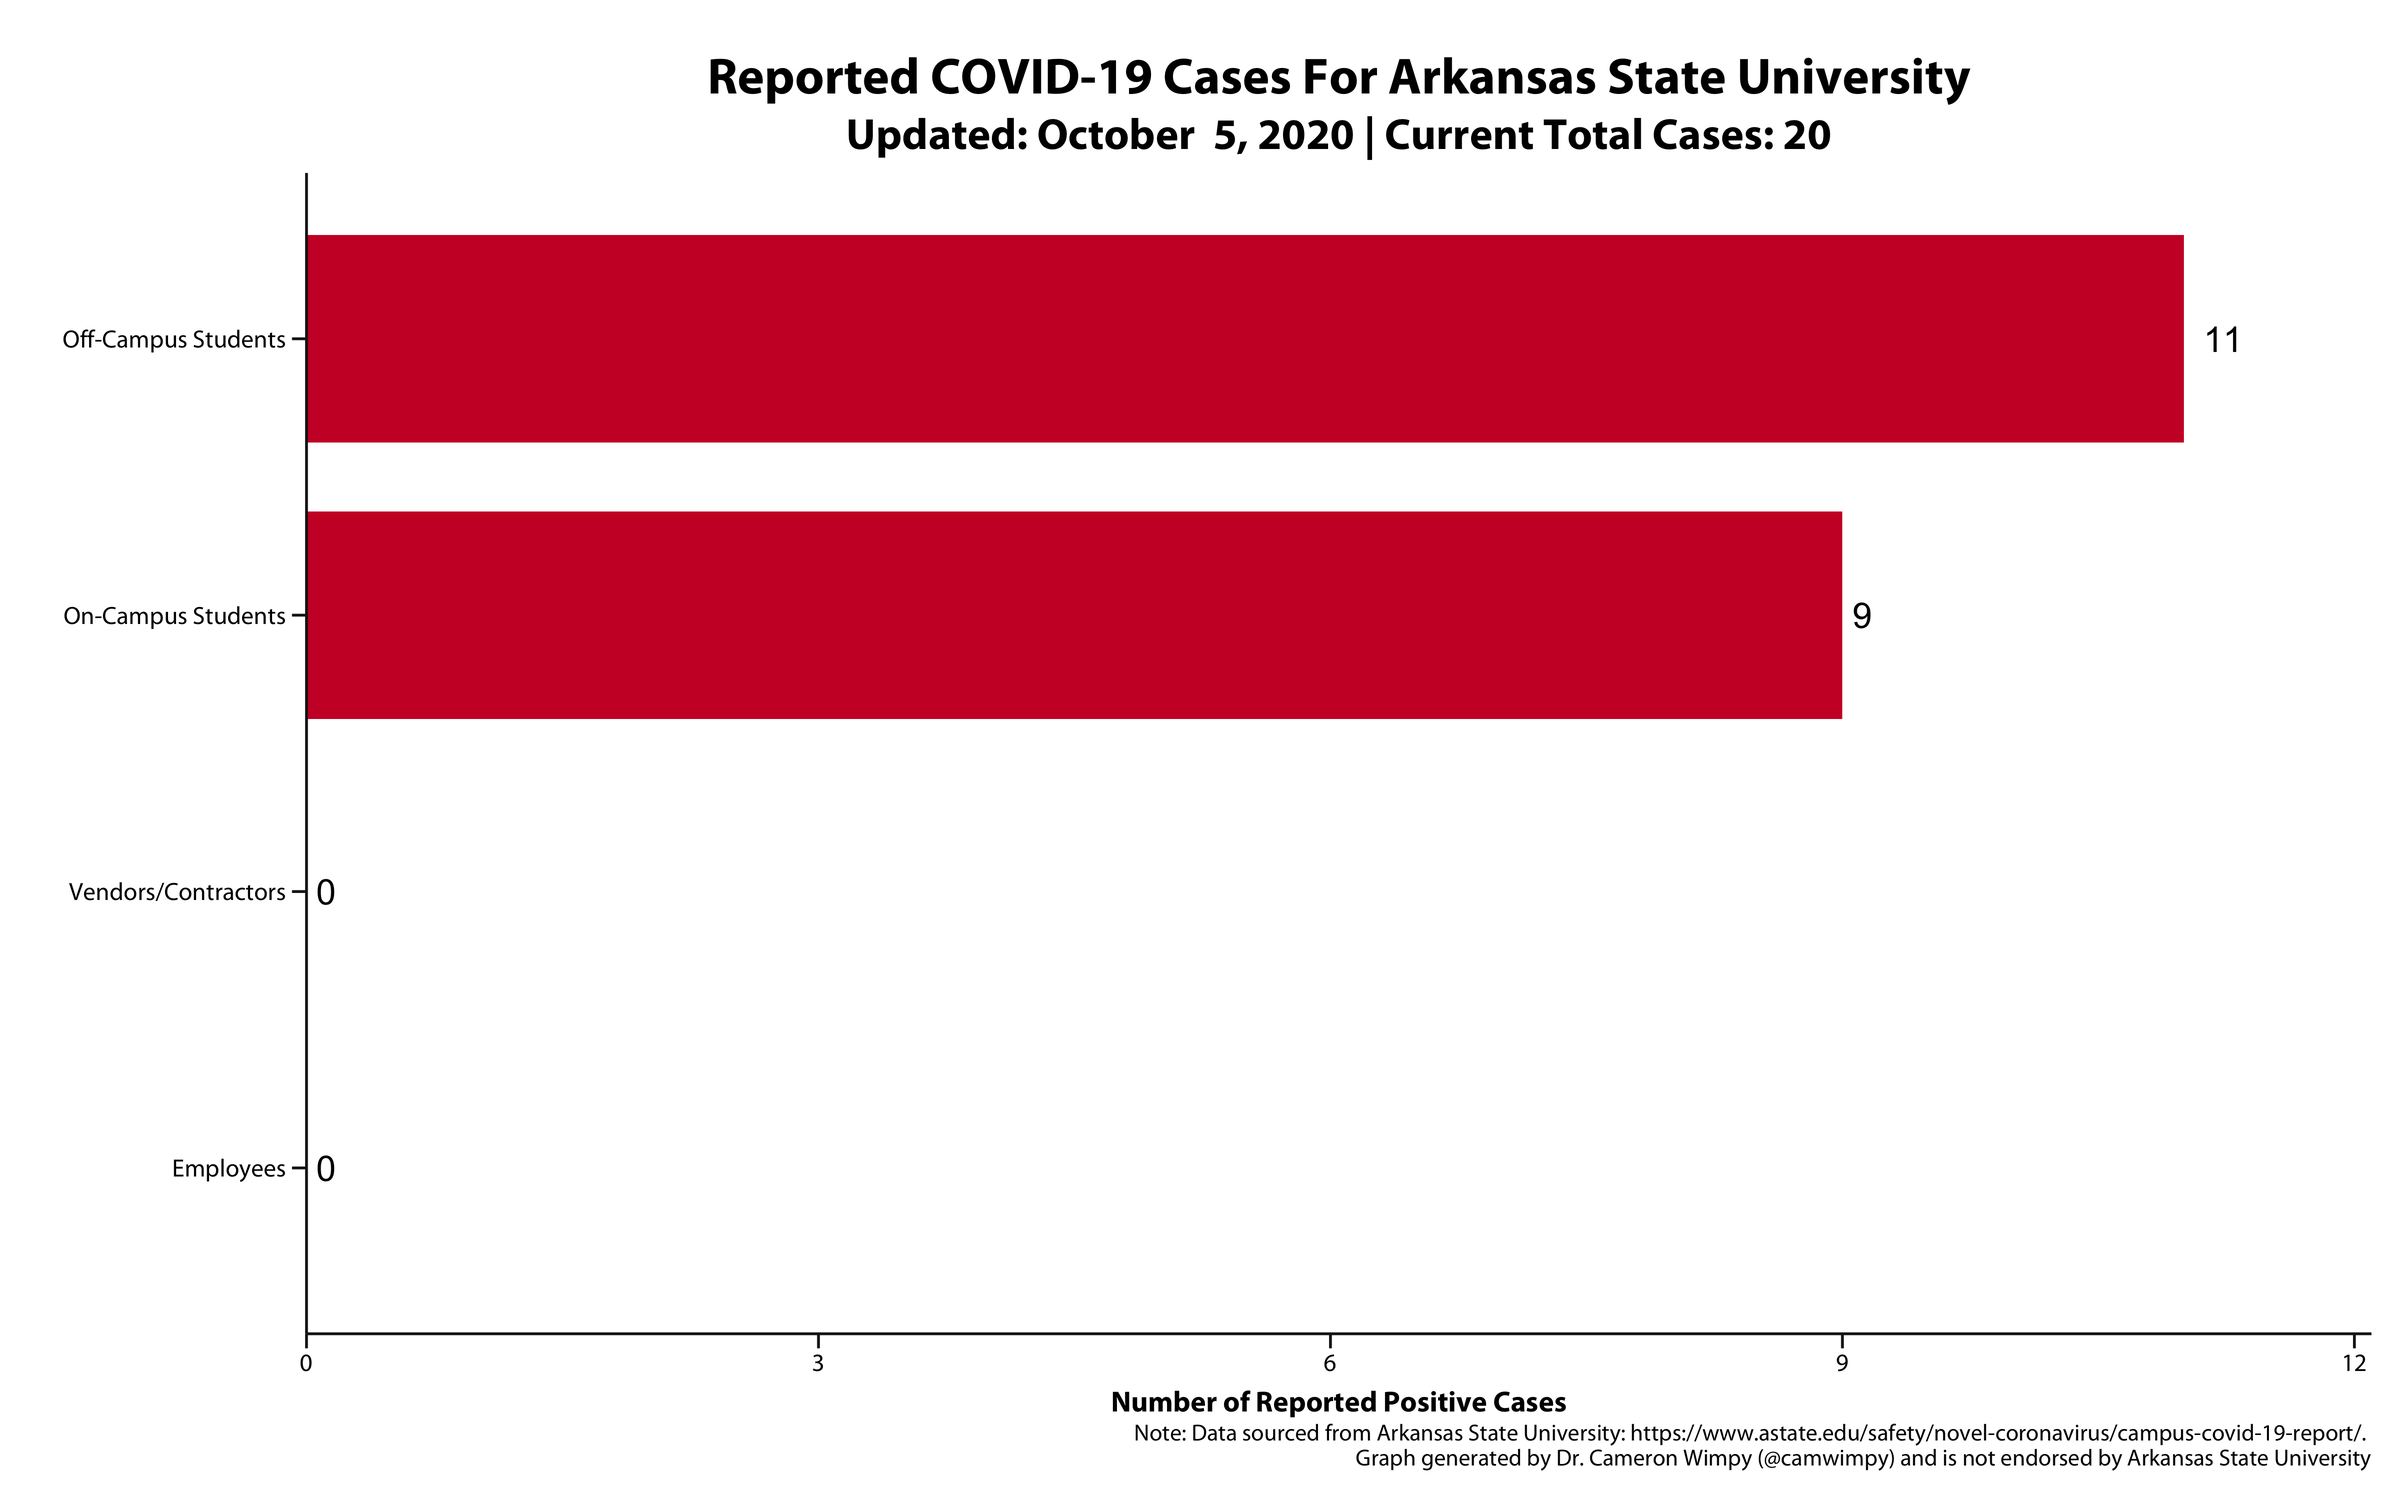
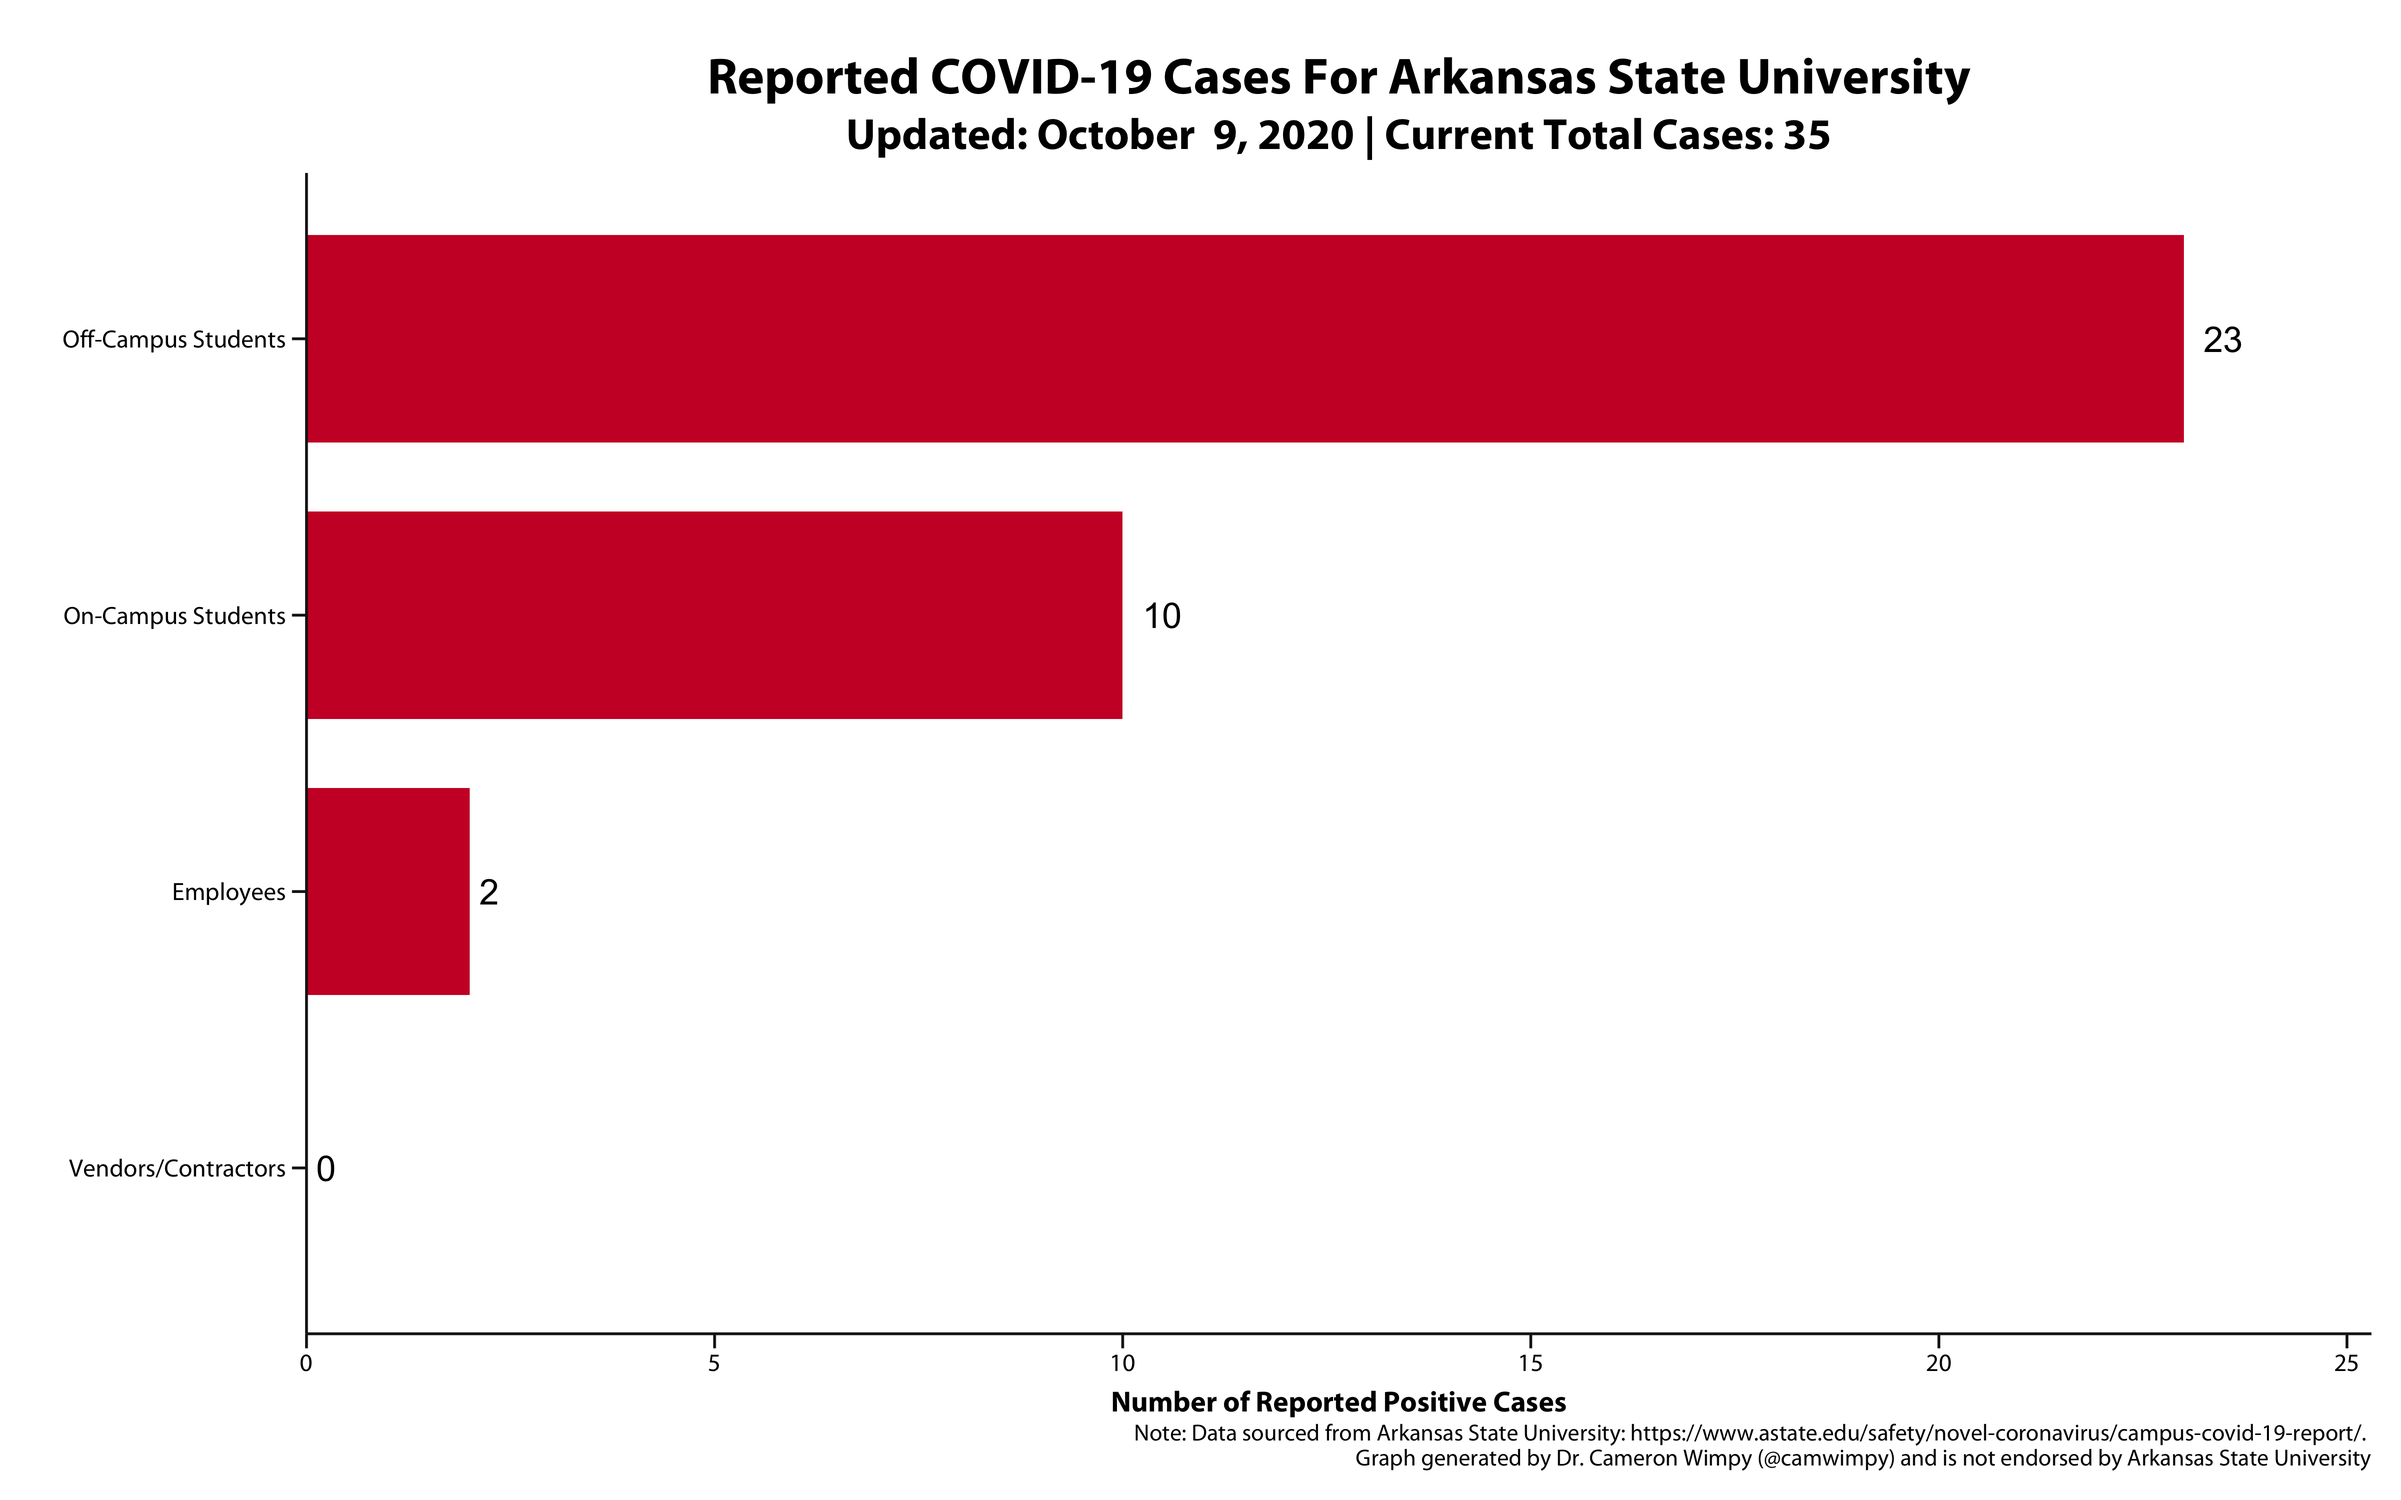
update for Oct 9

diff --git a/README.md b/README.md
@@ -10,4 +10,4 @@ This repo is dedicated to making graphs to track the Covid-19 outbreak at Arkans
 
 ![](images/bar.png)
 
-## Updated: October 5, 2020
+## Updated: October 9, 2020
